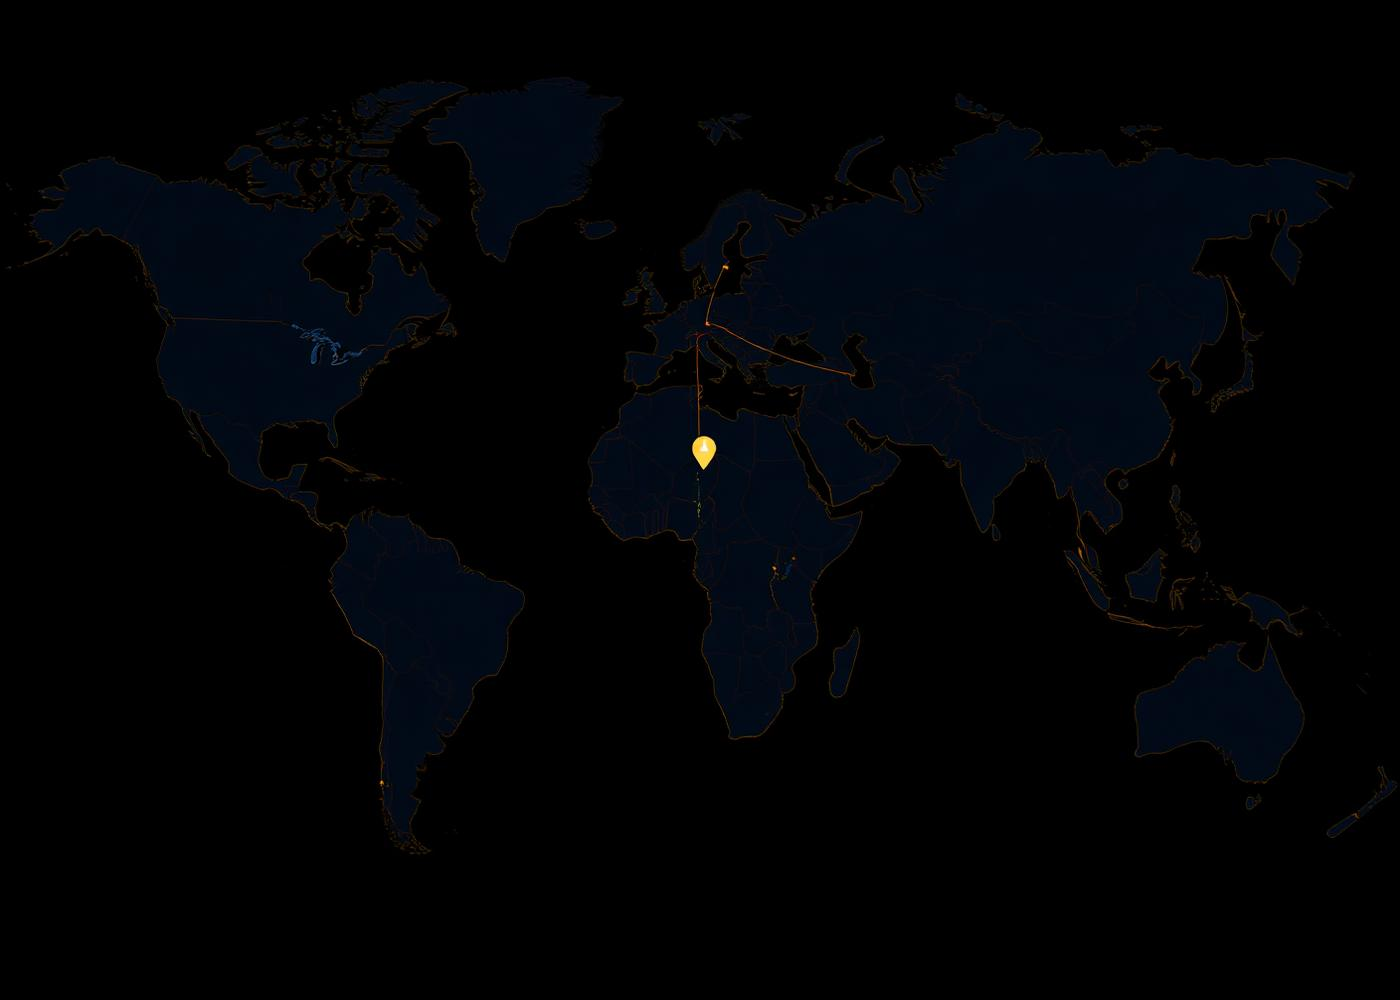
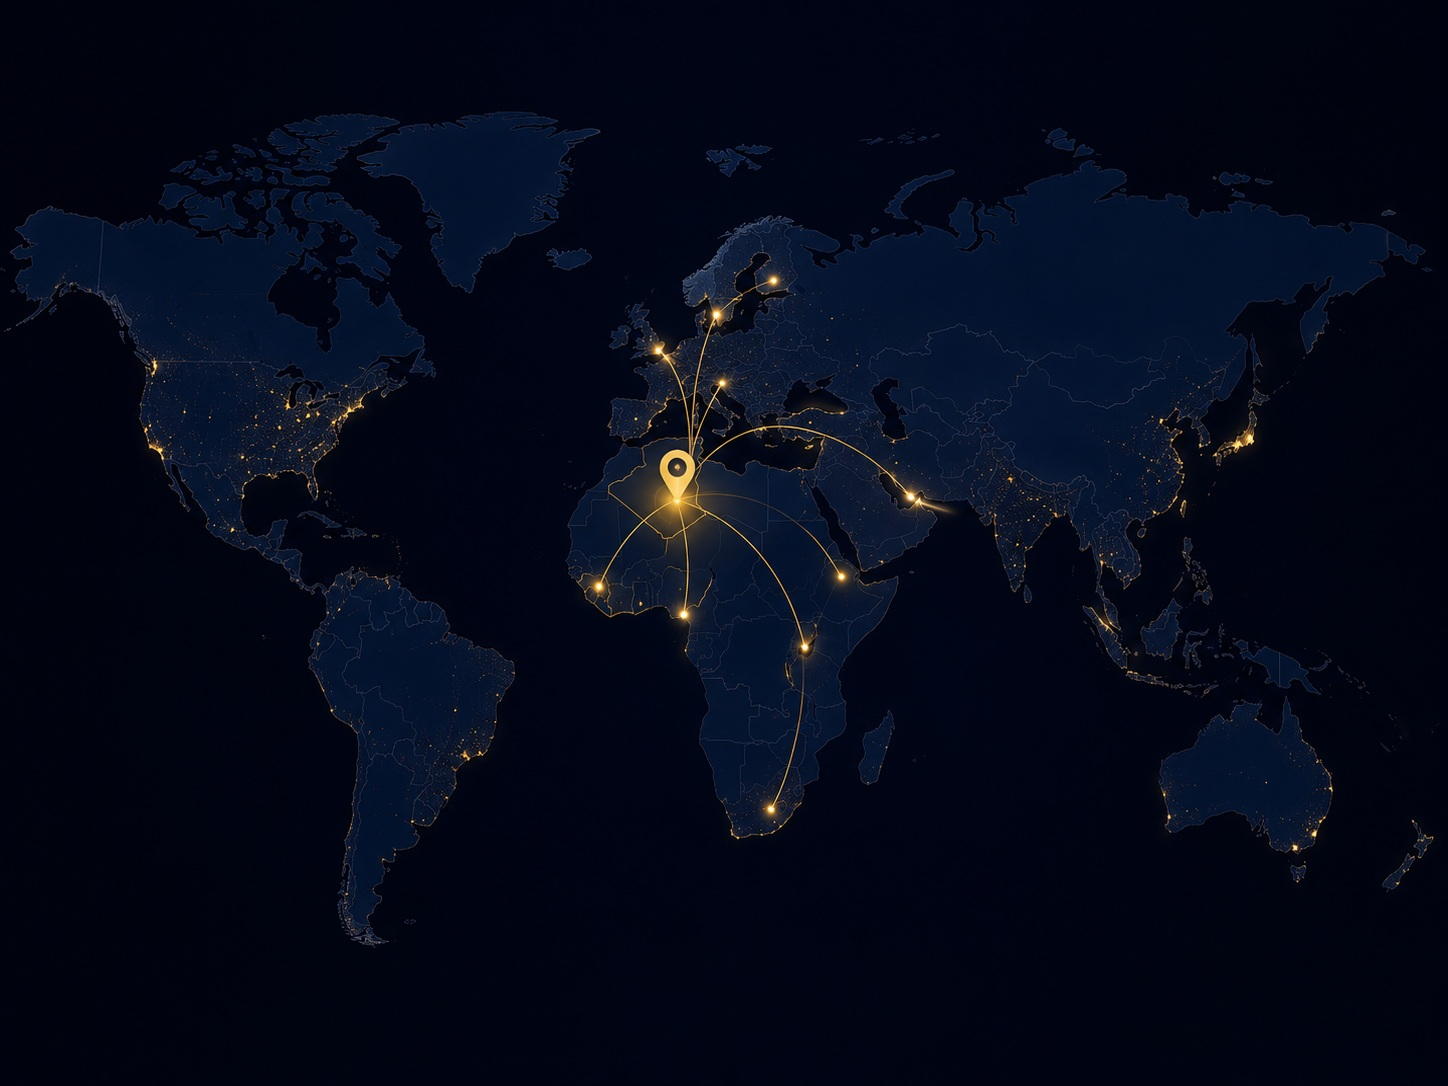
Connect contact form to Formspree

diff --git a/src/routes/contact.tsx b/src/routes/contact.tsx
@@ -40,50 +40,50 @@ function Contact() {
   const processSteps =
     lang === "ar"
       ? [
-          {
-            t: "استفسار تجاري جاد",
-            d: "نستقبل الرسائل المتعلقة بالمنتجات، القطاعات، فرص التصدير أو التعاون التجاري.",
-          },
-          {
-            t: "مراجعة مهنية",
-            d: "نراجع الطلب وفق نوع الجهة، السوق، القطاع، وإمكانية المتابعة التجارية.",
-          },
-          {
-            t: "تواصل مباشر",
-            d: "عند وضوح الطلب، يتم التواصل عبر البريد أو واتساب لمتابعة النقاش التجاري.",
-          },
-        ]
+        {
+          t: "استفسار تجاري جاد",
+          d: "نستقبل الرسائل المتعلقة بالمنتجات، القطاعات، فرص التصدير أو التعاون التجاري.",
+        },
+        {
+          t: "مراجعة مهنية",
+          d: "نراجع الطلب وفق نوع الجهة، السوق، القطاع، وإمكانية المتابعة التجارية.",
+        },
+        {
+          t: "تواصل مباشر",
+          d: "عند وضوح الطلب، يتم التواصل عبر البريد أو واتساب لمتابعة النقاش التجاري.",
+        },
+      ]
       : lang === "fr"
         ? [
-            {
-              t: "Demande commerciale sérieuse",
-              d: "Nous recevons les demandes liées aux produits, secteurs, opportunités d'export ou coopération commerciale.",
-            },
-            {
-              t: "Revue professionnelle",
-              d: "Nous examinons la demande selon le type d'acteur, le marché, le secteur et la possibilité de suivi.",
-            },
-            {
-              t: "Contact direct",
-              d: "Lorsque la demande est claire, l'échange se poursuit par email ou WhatsApp.",
-            },
-          ]
+          {
+            t: "Demande commerciale sérieuse",
+            d: "Nous recevons les demandes liées aux produits, secteurs, opportunités d'export ou coopération commerciale.",
+          },
+          {
+            t: "Revue professionnelle",
+            d: "Nous examinons la demande selon le type d'acteur, le marché, le secteur et la possibilité de suivi.",
+          },
+          {
+            t: "Contact direct",
+            d: "Lorsque la demande est claire, l'échange se poursuit par email ou WhatsApp.",
+          },
+        ]
         : [
-            {
-              t: "Serious commercial inquiry",
-              d: "We receive inquiries related to products, sectors, export opportunities, or commercial cooperation.",
-            },
-            {
-              t: "Professional review",
-              d: "We review the request based on entity type, market, sector, and practical follow-up potential.",
-            },
-            {
-              t: "Direct response",
-              d: "When the request is clear, communication continues by email or WhatsApp.",
-            },
-          ];
+          {
+            t: "Serious commercial inquiry",
+            d: "We receive inquiries related to products, sectors, export opportunities, or commercial cooperation.",
+          },
+          {
+            t: "Professional review",
+            d: "We review the request based on entity type, market, sector, and practical follow-up potential.",
+          },
+          {
+            t: "Direct response",
+            d: "When the request is clear, communication continues by email or WhatsApp.",
+          },
+        ];
 
-  const onSubmit = (e: FormEvent<HTMLFormElement>) => {
+  const onSubmit = async (e: FormEvent<HTMLFormElement>) => {
     e.preventDefault();
     if (submitting) return;
 
@@ -104,11 +104,31 @@ function Contact() {
     const form = e.currentTarget;
     setSubmitting(true);
 
-    window.setTimeout(() => {
+    try {
+      const response = await fetch("https://formspree.io/f/xdargkdw", {
+        method: "POST",
+        body: fd,
+        headers: {
+          Accept: "application/json",
+        },
+      });
+
       setSubmitting(false);
-      setSubmitted(true);
-      form.reset();
-    }, 700);
+
+      if (response.ok) {
+        setSubmitted(true);
+        form.reset();
+      } else {
+        setErrors({
+          form: "The message could not be sent. Please try again or contact us by email.",
+        });
+      }
+    } catch {
+      setSubmitting(false);
+      setErrors({
+        form: "The message could not be sent. Please try again or contact us by email.",
+      });
+    }
   };
 
   const inputCls =
@@ -195,10 +215,9 @@ function Contact() {
                       className="sm:col-span-2 rounded-md border border-destructive/40 bg-destructive/10 px-4 py-3 text-sm text-destructive"
                       role="alert"
                     >
-                      {c.errorBanner}
+                      {errors.form || c.errorBanner}
                     </div>
                   )}
-
                   <Field label={c.fields.fullName} error={errors.fullName}>
                     <input name="fullName" className={inputCls} maxLength={100} />
                   </Field>
